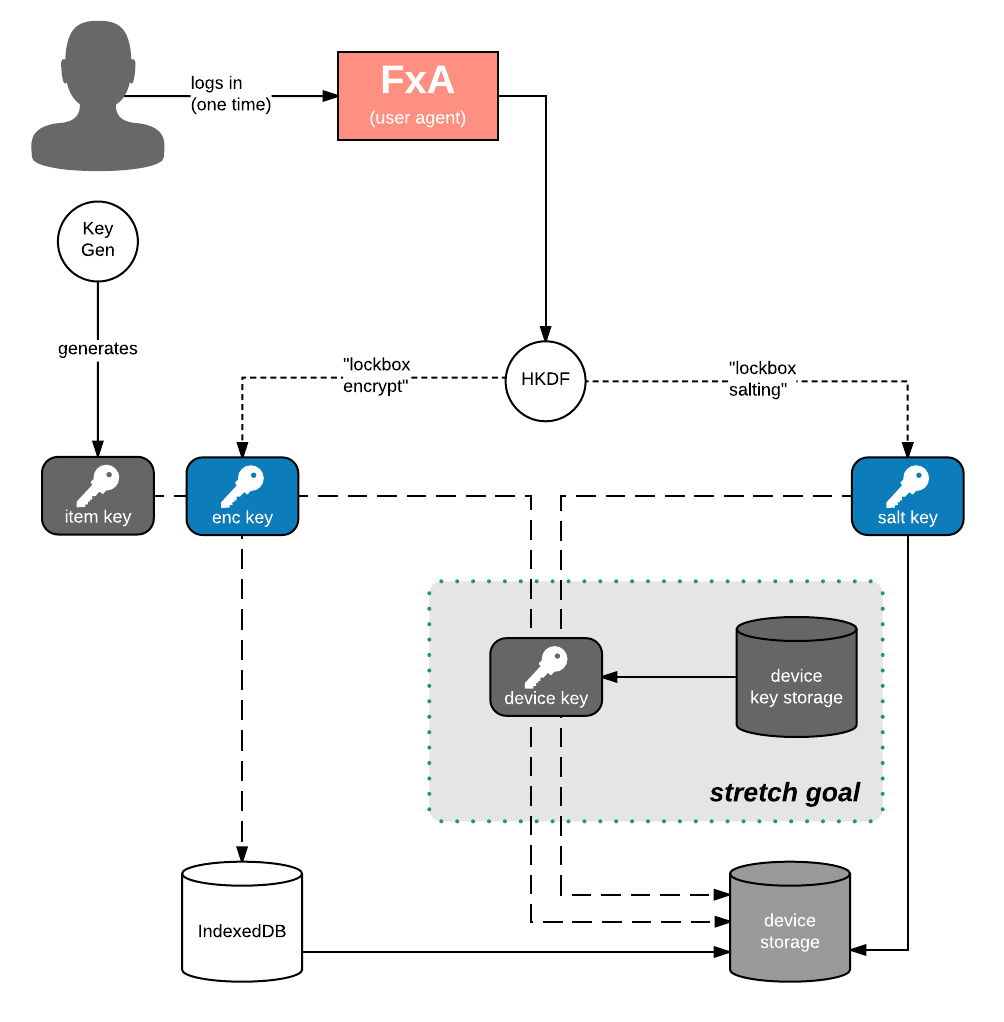
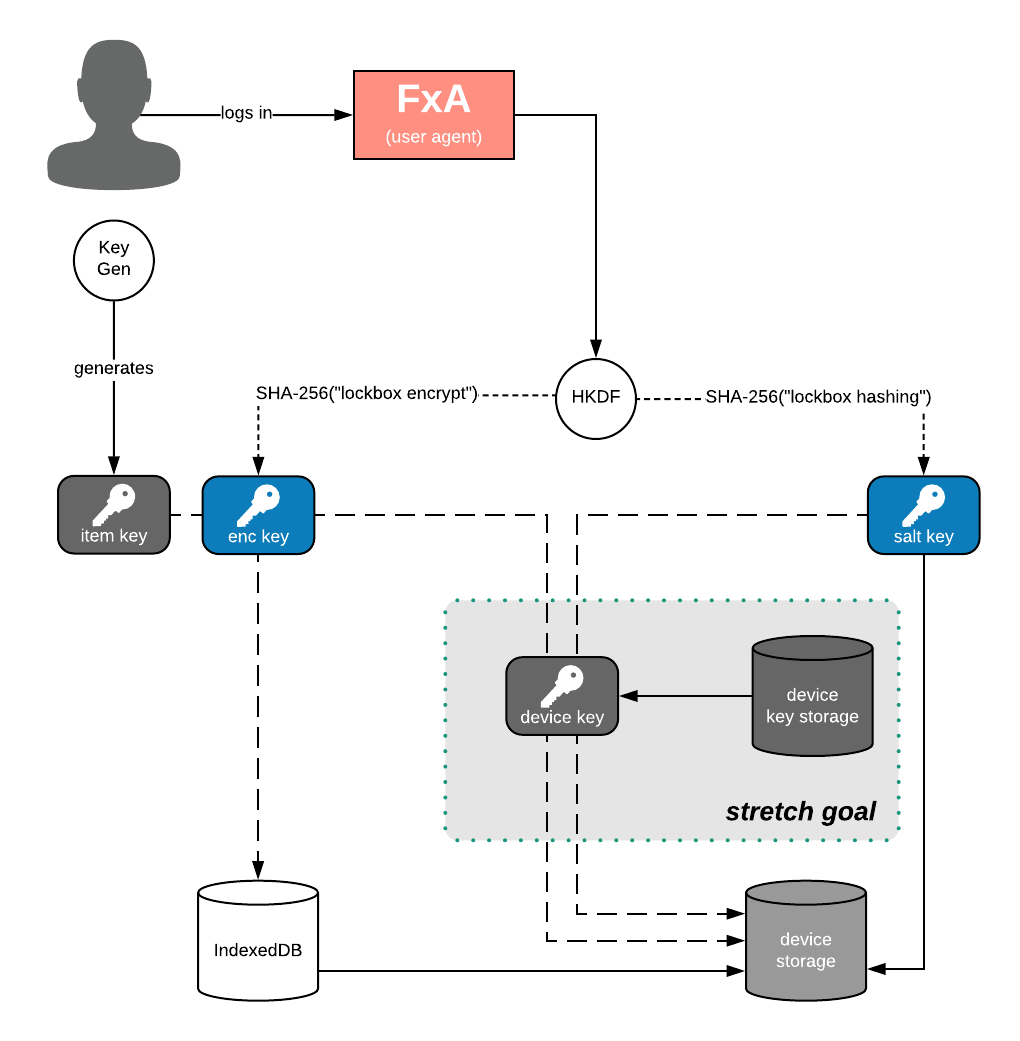
Updating data storage to reflect implementation (#36)

Changed region(s): [[0.1544, 0.3033, 0.988, 0.9706], [0.0309, 0.0, 0.5558, 0.546]]

diff --git a/architecture/data-storage.md b/architecture/data-storage.md
@@ -4,19 +4,20 @@
 
 Lockbox manages sensitive user data; to start will be web logins, but eventually anything the user wants protected -- any credentials, credit card information, shipping and billing addresses, etc.  Such data requires a high degree of protection.  This document details an approach to protecting Lockbox data.
 
-This approach does not assume the user will -- or can -- use device-wide data protection methods (e.g., Bitlocker, FileVault2).  Such technology is not universally available, and where it is available is not automatically enabled.
+This approach does not assume the user will -- or can -- use device-wide data protection methods (_e.g._, BitLocker, FileVault2).  Such technology is not universally available, and where it is available is not automatically enabled.
 
-## Goals
+## Themes
 
-- Protect user data -- both locally on disk and in remote storage -- using commonly-available technologies
+- User data is kept in a protected as much as possible
+- Re-use commonly available technologies to protect user data, both locally on disk and in remote storage
 - Allow for future expansion while mitigating wholesale changes to how that data is stored
-- Allow incremental updates to user's data, and eventually incremental user-driven exposure of data (e.g., sharing with a team/family)
+- Allow incremental updates to user's data, and eventually incremental user-driven exposure of data (_e.g._, sharing with a team/family)
 
 ## Item Data Format
 
- ![](images/data-storage-item-data-format.png)
+The cleartext data format is JSON, and fits into the illustrated schema.
 
-The data format is JSON, and fits into the illustrated schema.
+ ![Lockbox Item JSON format](images/data-storage-item-data-format.png)
 
 An item is an Object, that is divided into three portions:
 
@@ -24,61 +25,68 @@ An item is an Object, that is divided into three portions:
 - Content-submitted entry data
 - Item history data
 
+The data storage module does not maintain a cache of the cleartext values.  Each read operation (listing, retrieving) and removing includes a decrypt step; adding involves an encrypt step; updating includes decrypt and encrypt steps.  Consumers of the data storage module (_e.g._, desktop extension, iOS mobile app) **MAY** have a cleartext cache of some or all lockbox Items in order to operate.
+
 ### Metadata
 
 The top-level metadata is everything about the item that does not typically need to be filled into a form.  It consists of the following:
 
-- **"id" (string): **This member is a UUID that uniquely identifies the item, and** SHOULD** be a type-4 (random) UUID.
-- **"disabled" (boolean)**: This member indicates whether or not the item is disabled.  Disabled items **SHOULD NOT** be used to fill forms.
-- **"title" (string):** This member is a user-entered title or name for the item.  It can default to the origin/domain the item's entry data was created for.
-- **"tags" (string[]):** This member is an array of user-defined tags.  This member may be empty or omitted entirely.
-- **"origins" (string[]):** This member is an array of URIs this item can be applied to.  Typically an item has at most one origin, but advanced users can add additional origins if they are confident each is logically for the same owner.
-- **"created" (date/time):** This member timestamps when the item was created.
-- **"modified" (date/time): **This member timestamps when the item was last changed.  This includes** any** change to the item, be it entry data or metadata; the only exception is if the "last\_used" member is changed.
-- **"last\_used" (date/time):** This member timestamps when the item was last accessed to fill a form.
+- **`id` (string)**: This member is a UUID that uniquely identifies the item, and** SHOULD** be a type-4 (random) UUID.
+- **`disabled` (boolean)**: This member indicates whether or not the item is disabled.  Disabled items **SHOULD NOT** be used to fill forms.
+- **`title` (string)**: This member is a user-entered title or name for the item.  It can default to the origin/domain the item's entry data was created for.
+- **`tags` (string[])**: This member is an array of user-defined tags.  This member may be empty or omitted entirely.
+- **`origins` (string[])**: This member is an array of URIs this item can be applied to.  Typically an item has at most one origin, but advanced users can add additional origins if they are confident each is logically for the same owner.
+- **`created` (date/time)**: This member timestamps when the item was created.
+- **`modified` (date/time)**: This member timestamps when the item was last changed.  This includes **any** change to the item, be it entry data or metadata; the only exception is if the `last_used` member is changed.
+- **"last_used" (date/time)**: This member timestamps when the item was last accessed to fill a form.
 
 ### Entry Data
 
 The entry data is an Object that contains a type specification and the values needed to populate forms. The specifics of this JSON object are determined by the "type" member.
 
-- **"kind" (string):** This member indicates the kind of entry data contained.  Currently the only value defined is "login".
-- **"notes" (string):** This member is a catch-all of information the user can set additional information about the item (e.g., security questions/answers).
+- **`kind` (string)**: This member indicates the kind of entry data contained.  Currently the only value defined is "login".
+- **`notes` (string)**: This member is a catch-all of information the user can set additional information about the item (_e.g._, security questions/answers).
 
-#### "Login" Type
+#### "Login" Kind
 
 The entry type "login" stores login credentials.  This entry type has the following additional members:
 
-- **"username" (string):** This member is the username value
-- **"username\_field" (string)**: This member contains the field name or id where the username value is filled into
-- **"password" (string):** This member is the password or secret value
-- **"password\_field" (string):** This member is the field name or id where the password value is filled into
-- **"password\_modified" (date/time):** This member timestamps when the password value was last changed.
+- **`username` (string)**: This member is the username value
+- **`password` (string)**: This member is the password or secret value
 
 ### Entry History
 
 History tracks changes to the item's Entry data only.  This portion is an array of objects, ordered from newest to oldest change  Each history object consists of the following:
 
-- **"create" (date/time):** The date/time in UTC this history item was created, which marks when the succeeding change was made.
-- **"patch" (object):** The changes to apply to the Entry data. This specifics of this value are still to be determined, but the most viable options are:
-  - **○○** JSON Merge Patch [[RFC7396](https://tools.ietf.org/html/rfc7396)]
-  - **○○** Original JSON for the item Entry
-
-**[OPEN ISSUE: What is the maximum number of history items to track? Allowing for "unlimited" risks resource exhaustion]**
+- **`created` (date/time)**: The date/time in UTC this history item was created, which marks when the succeeding change was made.
+- **`patch` (object)**: The changes to apply to the Entry data. This value is the [JSON Merge Patch][RFC7396] difference between the current and previous values.
 
 ### Regarding Date/Time Values
 
-All of the date/time values in this format are represented as JSON strings formatted according to [[RFC3339](https://tools.ietf.org/html/rfc3339)]'s internet date-time.  All date/time values are in UTC; the time-offset **MUST** be "Z".  In a JavaScript runtime, these values can be Date objects.
+All of the date/time values in this format are represented as JSON strings formatted according to [RFC3339]'s internet date-time.  All date/time values are in UTC; the time-offset **MUST** be "Z".
+
+### Limits
+
+the following limits are imposed within a Lockbox Item:
+
+* **`title`** - maximum length of 500 characters
+* **`entry.username`** - maximum length of 500 characters
+* **`entry.password`** - maximum length of 500 characters
+* **`entry.notes`** - maximum length of 10000 characters
+* **`origins`** - maximum amount of 5 origin values, origin value maximum length of 500 characters
+* **`tags`** - maximum amount of 10 tags, tag value maximum length of 500 characters
+* **`history`** - maximum amount of 100 history values
 
 ## Database Usage
 
 The following diagram illustrates the tables used to store Lockbox items:
 
-![](images/data-storage-database-usage.png)
+![Lockbox Database Format](images/data-storage-database-usage.png)
 
-- **Items table:** This table stores the actual Lockbox items. Each row is keyed by the item's UUID and its value is the JSON serialization of the item, encrypted using its associated item key.
-- **OriginHashes table:** This table stores (hashes of) origins associated with their Lockbox items.  Each row is keyed by the (hashed) origin and its value is the set of associated Lockbox items' UUIDs.  Ideally there should only be one item per origin hash, but users may have multiple items associated to the same origin (e.g. "gmail.com" login for both personal and work).
-- **TagHashes table:** This table stores the (hashes of) tags associated with their Lockbox items.  Each row is keyed by the (hashed) tag and its value is the set of associated Lockbox items' UUIDs.
-- **Keys table:** This table stores the keys used to encrypt Lockbox items.  Each row is keyed by the associated item's UUID and its value is the key serialized as a JWK, encrypted using the master encryption key.
+- **Items table**: This table stores the actual Lockbox items. Each row is keyed by the item's UUID and its value is the JSON serialization of the item, encrypted using its associated item key.
+- **Origins table**: This table stores (hashes of) origins associated with their Lockbox items.  Each row is keyed by the (hashed) origin and its value is the set of associated Lockbox items' UUIDs.  Ideally there should only be one item per origin hash, but users may have multiple items associated to the same origin (e.g. "gmail.com" login for both personal and work).
+- **Tags table**: This table stores the (hashes of) tags associated with their Lockbox items.  Each row is keyed by the (hashed) tag and its value is the set of associated Lockbox items' UUIDs.
+- **Keystores table**: This table stores the keystore(s), which maintain the encryption keys used to encrypt Lockbox items.  Each row is keyed a group name ("" for the default group) and its value is the keystore serialized to JSON, encrypted using the master encryption key.
 
 ### Origin and Tag Hashing
 
@@ -89,126 +97,125 @@ For a given item, each origin (and tag) is maintained in a separate table to tak
 Each item is encrypted using a randomly-generated key specific to it.  Using randomly generated per-item keys allows for the following benefits:
 
 - Incremental updates that do not require application-wide tracking of nonces
-- Future per-item features and behaviors (e.g., sharing items with others) that minimizes any required rekeying and re-encrypting.
+- Future per-item features and behaviors (_e.g._, sharing items with others) that minimizes any required rekeying and re-encrypting.
 
-Items are encrypted according to JWE [[RFC7516](https://tools.ietf.org/html/rfc7516)], utilizing the Compact Serialization, with the following parameters:
+Items are encrypted according to [JWE], utilizing the Compact Serialization, with the following parameters:
 
-- **Key Distribution Algorithm ("alg"):**"dir" (Direct key encryption)
-- **Content encryption algorithm ("enc"):** A256GCM
+- **Key Distribution Algorithm ("alg")**: "dir" (Direct key encryption)
+- **Content encryption algorithm ("enc")**: A256GCM
 
 ### Item Key Encryption
 
-To facilitate synchronization of keys across devices, each key is encrypted using a master encryption key.  The encryption follows JWE [[RFC7516](https://tools.ietf.org/html/rfc7516)], utilizing the Compact Serialization, with the following parameters:
+To facilitate synchronization of keys across devices, item keys are encrypted using a master encryption key.  The item keys are maintained as a JSON object, mapping from the item `id` to its encryption key (represented as a [JWK]).  The keystore is serialized to JSON and encrypted before storage; the encryption follows [JWE], utilizing the Compact Serialization, with the following parameters:
 
-- **Key distribution algorithm ("alg"):**"dir" (direct key encryption)
-- **Content encryption algorithm ("enc"):** A256GCM
+- **Key distribution algorithm ("alg")**: "dir" (direct key encryption)
+- **Content encryption algorithm ("enc")**: A256GCM
 
 ## Key Management
 
 The following diagram illustrates the various keys used in Lockbox:
 
-![](images/data-storage-key-management.png)
+![Lockbox Key Management](images/data-storage-key-management.png)
 
-- **Master Encryption Key (master enc):** This key is used to encrypt the item keys. This key is derived from the user's "master" or "database" password, which is separate from the Firefox Accounts (FxA) credentials. It **MUST** never be persisted to permanent storage unless it can be secured against access from other users and other applications running as that user.
-- **Firefox Application-derived key (app prekey):** This value is generated from a user's FxA credentials specifically for this application ("lockbox"), and is used as an input factor to generate other encryption keys and hashing salts. It **MUST** never be persisted to permanent storage. The other values generated from this prekey are:
-  - **Encryption salt (enc salt)**: This value is mixed with the user's master database password to generate the master encryption key. This key **MAY** be persisted to permanent storage if it can be secured against other users on that device (and ideally from other applications running as the same user).
-  - **Hashing salt (hash salt):** This value is used as the salt when generating search hashes for user data.  This key can be persisted to permanent storage, preferably secured from other users (and other applications running as the same user), but is not as critical as the encryption prekey.
-- **Item Key:** The item key is used to encrypt a specific Lockbox data item.  Item keys are encrypted using the master encryption key then stored in Kinto, keyed by the associated Lockbox item's UUID.
+- **Firefox Application-derived key (app prekey)**: This value is generated from a user's FxA credentials specifically for this application ("lockbox"), and is used as an input factor to generate other encryption keys and hashing salts. The values derived from this prekey are:
+  - **Encryption Key (enc key)**: This value is used to encrypt the item encryption keystore(s)
+  - **Hashing salt (salt key)**: This value is used as the salt when generating search hashes for user data.
+- **Item Key**: The item key is used to encrypt a specific Lockbox data item.  Item keys are maintained with an item keystore, which is itself encrypted using the master encryption key and synchronized via Kinto.
 
 ### FxA-based Salt Derivations
 
-From the FxA application prekey two values are derived: the encryption prekey and the master hashing salt.  Both are derived using [HKDF](https://tools.ietf.org/html/rfc5869) using HMAC-SHA-256.
+From the FxA application prekey two values are derived: the encryption key and the hashing salt.  Both are derived using [HKDF] using HMAC-SHA-256.
 
 Deriving the encryption salt uses the following input factors:
 
-- **Input Keying Material (IKM):** FxA "lockbox" application prekey
-- **Salt:**_To Be Determined_
-- **Info:**"lockbox encrypt"
-- **Output Length (L):** 32 (the length of a AES-256-GCM symmetric key)
+- **Input Keying Material (IKM)**: FxA "lockbox" application prekey
+- **Salt**: FxA user id (uid) (or "" if not known)
+- **Info**: SHA-256("lockbox encrypt")
+- **Output Length (L)**: 32 (the octect length of a AES-256-GCM symmetric key)
 
 Deriving the hashing salt uses the following input factors:
 
-- **Input Keying Material (IKM):** FxA "lockbox" application prekey
-- **Salt:**_To Be Determined_
-- **Info:**"lockbox hash"
-- **Output Length (L):** 32 (the length of a SHA-256 hash value)
-
-**NOTE:** While RFC 5869 salt value is strongly recommended, this usage does not provide for a reliable manner to convey a pseudo-random salt across devices before it's use is necessary.  This value may be a 32-octet string of "0", or a precomputed value hardcoded into the implementations, or a HMAC of a well-known value and the application prekey.
-
-### Master Encryption Key Derivation
-
-The master encryption key is derived from the user's master database password and (optionally) the user's FxA "lockbox" application prekey using [PBKDF2](https://tools.ietf.org/html/rfc2898) using HMAC-SHA-256 with the following input factors:
-
-- **Input Password (P):** User-entered master database password
-- **Salt (S):** FxA-derived encryption salt
-- **Iteration count (c):**_To Be Determined_ (possibly 102400)
-- **Output Length (dkLen):** 32 octets (the length of a AES-256-GCM symmetric key)
+- **Input Keying Material (IKM)**: FxA "lockbox" application prekey
+- **Salt**: FxA user id (uid) (or "" if not known)
+- **Info**: SHA-256("lockbox hashing")
+- **Output Length (L)**: 32 (the length of a SHA-256 hash value)
 
 ### Item Key Generation
 
-Each item key is generated using a cryptographically  strong source of entropy, such as from `window.crypto.getRandomValues() or crypto.subtle.generateKey()`.
+Each item key is generated using a cryptographically strong source of entropy, such as from `crypto.subtle.generateKey()`.
 
 ## Import and Migration
 
-From Firefox Logins
+### From Firefox Logins
 
 The following table assumes migration from the JSON format stored on disk:
 
-| **Firefox →** | **→ Lockbox** | **Notes** |
+| **From Firefox** | **Into Lockbox** | **Notes** |
 | --- | --- | --- |
-| id |   | - Skipped |
-| hostname | origins[0] |   |
-| httpRealm |   | - Skipped (?) |
-| formSubmitURL | origins[1] | - Only if not a duplicate of "hostname" |
-| usernameField | entry.username\_field |   |
-| passwordField | entry.password\_field |   |
-| encryptedUsername | entry.username | - entry.type = "login" <br/>- Decrypted during migration |
-| encryptedPassword | entry.password | - entry.type = "login"<br/>- Decrypted during migration |
-| guid | id | - Brackets removed <br/>- Generate if missing |
-| timeCreated | created | - UNIX timestamp →  RC 3339 |
-| timeLastUsed | last\_used | - UNIX timestamp →  RC 3339 |
-| timePasswordChanged | modifiedentry.password\_modified | - entry.type = "login"<br/>- UNIX timestamp →  RC 3339 |
-| timesUsed |   | - Skipped (?) |
+|  | `id` = **uuid()** | Generates a new unique UUID |
+| `id` |   | Skipped |
+| `hostname` | `origins[0]` |   |
+| `httpRealm` |   | Skipped |
+| `formSubmitURL` | `origins[1]` | Only if not a duplicate of "hostname" |
+| `usernameField` |   | Skipped |
+| `passwordField` |   | Skipped |
+|  | `entry.kind` = **"login"** |  |
+| `encryptedUsername` | `entry.username` | Decrypted during migration |
+| `encryptedPassword` | `entry.password` | Decrypted during migration |
+| `guid` |  | Skipped |
+| `timeCreated` | `created` | UNIX timestamp →  RC 3339 |
+| `timeLastUsed` | `last_used` | UNIX timestamp →  RC 3339 |
+| `timePasswordChanged` | `modified` | UNIX timestamp →  RC 3339 |
+| `timesUsed` |   | Skipped |
 
 ## Security Considerations
+
+### Guest Mode
+
+Lockbox currently supports a "guest mode" usage, providing a path to ramp up user's security hygiene. This mode adheres to this document with the following differences:
+
+* The FxA user id (used for deriving other keying material) is treated as the empty string ("").
+* The master encryption key is a well-known and hard-coded value, per application (_e.g._, desktop extension versus iOS application versus Android application).
+* All data is stored **ONLY** locally on the user's device; there is no interaction with cloud-based services.
+
+"Guest mode" does not significantly improve data protection over simply storing files onto their devices.  However, by maintaining consistency with the FxA-backed security features, it reduces potential vulnerabilities between trial uses and more secure credential-based uses.
 
 ### Item Origins
 
 Each Lockbox item permits multiple origins to be associated with it.  However, having more than one origin should be rare, and the user should be warned that providing multiple origins increases the risk of compromise.  Lockbox should never automatically add more than one origin to a given item, it **MUST** be left to the user to do this.
 
-It is also possible for multiple items to have the same origin.  This is a much more common occurrence, for instance a user that has both personal and business/work accounts to a cloud-based service (e.g., Gmail).
+It is also possible for multiple items to have the same origin.  This is a much more common occurrence, for instance a user that has both personal and business/work accounts to a cloud-based service (_e.g._, Gmail).
 
-Finally, the precise value of "origins" elements is still to be determined. An initial (possibly naive) approach is to use just the hostname.  However, it is likely desirable to match on a subdomain (e.g, matching "m.facebook.com" if there is an item with "facebook.com") but requires careful forethought (e.g., "myfacebook.com" must not match "facebook.com:) since the searches occur against cryptographic hashes.  Further research and experimentation is needed to determine the correct approach.
+Finally, the precise value of "origins" elements is still to be determined. An initial (possibly naive) approach is to use just the hostname.  However, it is likely desirable to match on a subdomain (e.g, matching "m.facebook.com" if there is an item with "facebook.com") but requires careful forethought (_e.g._, "myfacebook.com" must not match "facebook.com:) since the searches occur against cryptographic hashes.  Further research and experimentation needed to determine the correct approach.
 
-### Storing Salts
+### Storing "Master" Keys and Salts
 
-The two salts ("enc salt" and "hash salt"), while not used directly to encrypt data, do increase the success chances of attacks if stored on the user's devices in the clear.  The document " [Lockbox Secure Device Storage](https://docs.google.com/a/mozilla.com/document/d/1e44bUKgHFsmznUkl1v9vgTFjRt1GQH7QSwqZECbpqQg/edit?usp=sharing)" provides a more complete discussion of options and approaches.
+The application prekey and the two derived keys ("enc key" and "salt key") vastly increase the success chances of attacks if stored on the user's devices in the clear.  The document ["Lockbox Secure Device Storage"][lockbox-secure-device-storage] provides a more complete discussion of options and approaches.
 
-For the "enc salt", an attacker that has access can more easily guess the master encryption key, which then allows the attacker to decrypt all item keys and thereby decrypt all items.  This compromise can be mitigated with stronger password-based derivation parameters (e.g., higher iteration counts) or algorithms (e.g., scrypt).  The best mitigation is restricting access -- ideally to only the specific application instance for the target user:
+Storing the application prekey exposes the user's items to the attacker, if the attacker can determine the derivation parameters (which are not themselves secret).  Storing the "enc key" also exposes the user's items to the attacker, but with the obstacles of derivation already removed.  These values **MUST NOT** be stored unless the device has secure data isolation between users (and ideally between running applications) and the data remains on the device under the control of Lockbox.
 
-- Device-wide encryption helps limit access to anyone that can login to the device as a trusted user
-- Data protection solutions offered by the operating system help limit access to the user (and any application running as that user)
-- Secure enclaves on mobile devices help limit access to the specific application running for the user
-
-For the "hash salt", an attacker that has access can more easily generate the dictionary tables needed to match the hash input to the result, allowing an attacker to determine what origins and tags a user has associated items for.  However, the current hashing scheme means an attacker must generate a unique dictionary for each targeted user, changing a passive data collection effort into an active data collection effort.
+For the "salt key", storing this allows an attacker to more easily generate the dictionary tables needed to match the hash input to the result, allowing an attacker to determine what origins and tags a user has associated items for.  However, the risk is far less than storing "enc key"; the hashing scheme documented herein requires the attacker to generate a table per targeted user and guess values for each user, changing from a passive data collection effort into an active data collection effort.
 
 ### Nonce Generation
 
-AES-GCM is particularly sensitive to nonce re-use.  This means some care may need to be taken to ensure the same key/nonce (i.e., initialization vector or "iv") combination is not used more than once for different plaintexts.  A randomly-generated nonce using a cryptographically strong generator is unlikely to result in duplication.  However, if this is deemed to be inadequate, a strategy for deterministic nonce generation may be developed.
-
-### Master Key Generation/Derivation
-
-The current design calls for a master key derived from user input.  However, it may be worth considering a separate master key, and using the derived key to encrypt that for synchronization.
+AES-GCM is particularly sensitive to nonce re-use.  Some care may need to be taken to ensure the same key/nonce (i.e., initialization vector or "iv") combination is not used more than once for different plaintexts.  A randomly-generated nonce using a cryptographically strong generator is unlikely to result in duplication.  However, if this is deemed to be inadequate, a strategy for deterministic nonce generation may be developed.
 
 ### Key Rotation
 
-This document has not discussed key rotation at all.  For individual items, this can be accomplished in a straightforward manner:
+Key rotation for individual items can be accomplished in a relatively straightforward manner:
 
 1. Duplicate the item, changing it's UUID
 2. Generate a new key, associated to the duplicate item's UUID
 3. Encrypt duplicate item with the new key
 4. Discard previous item
 
-Duplication is necessary to mitigate any possible confusion over which key a given item is encrypted with -- it is always with the key mapped to the item's UUID.
+Duplication is necessary to mitigate any possible confusion over which key a given item is encrypted with -- it is always with the key mapped to the item's UUID, and the item's UUID is always mapped to a single key.
 
-Rotating the master key is more difficult.  The easiest is for the user to change their master database password.  However, there may be cases where this is undesirable.  Another possibilities are to mix in a version number into the encryption salt, although this requires coordination of version numbers across all of a user's devices in some manner that does not itself require encryption.
+Rotating the master key is far more difficult.  One possibility is to mix a version number into the encryption key derivation, although this requires coordination of version numbers across all of a user's devices in some manner that does not itself require encryption.
+
+[HKDF]: https://tools.ietf.org/html/rfc5869
+[JWE]: https://tools.ietf.org/html/rfc7516
+[JWK]: https://tools.ietf.org/html/rfc7517
+[lockbox-secure-device-storage]: https://docs.google.com/a/mozilla.com/document/d/1e44bUKgHFsmznUkl1v9vgTFjRt1GQH7QSwqZECbpqQg/edit?usp=sharing
+[RFC3339]: https://tools.ietf.org/html/rfc3339
+[RFC7396]: https://tools.ietf.org/html/rfc7396
